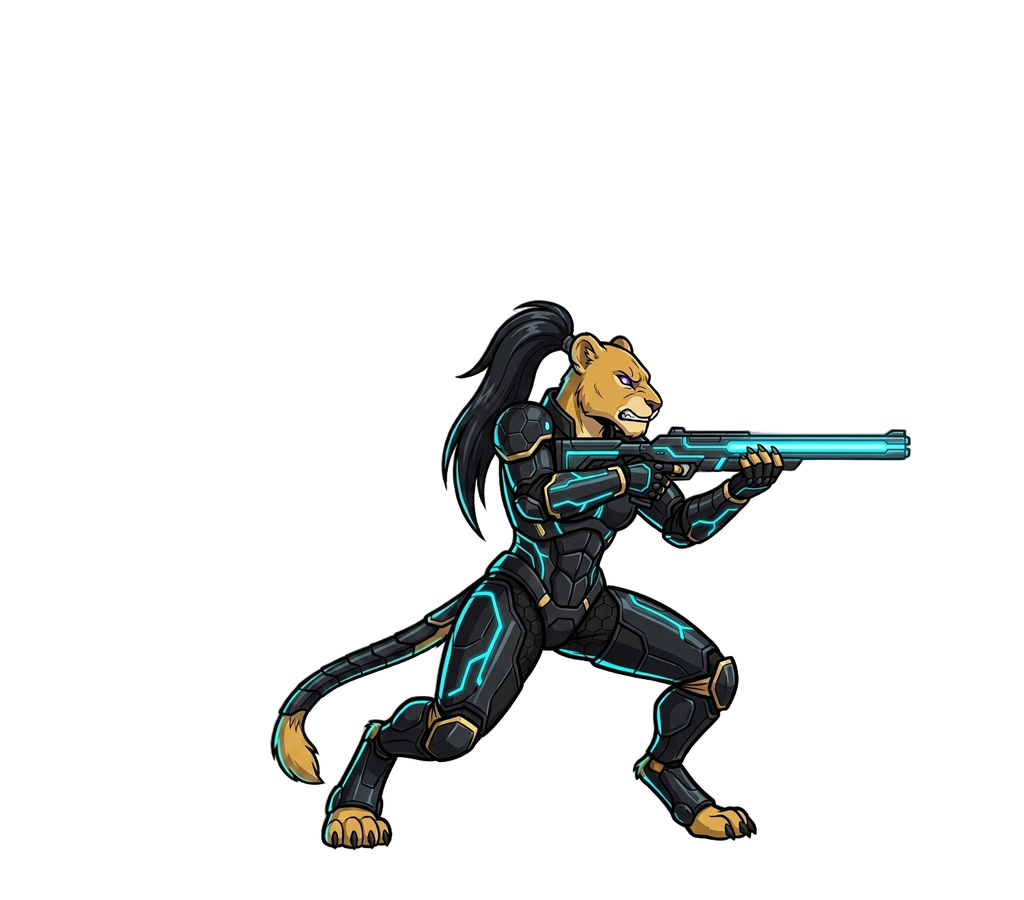
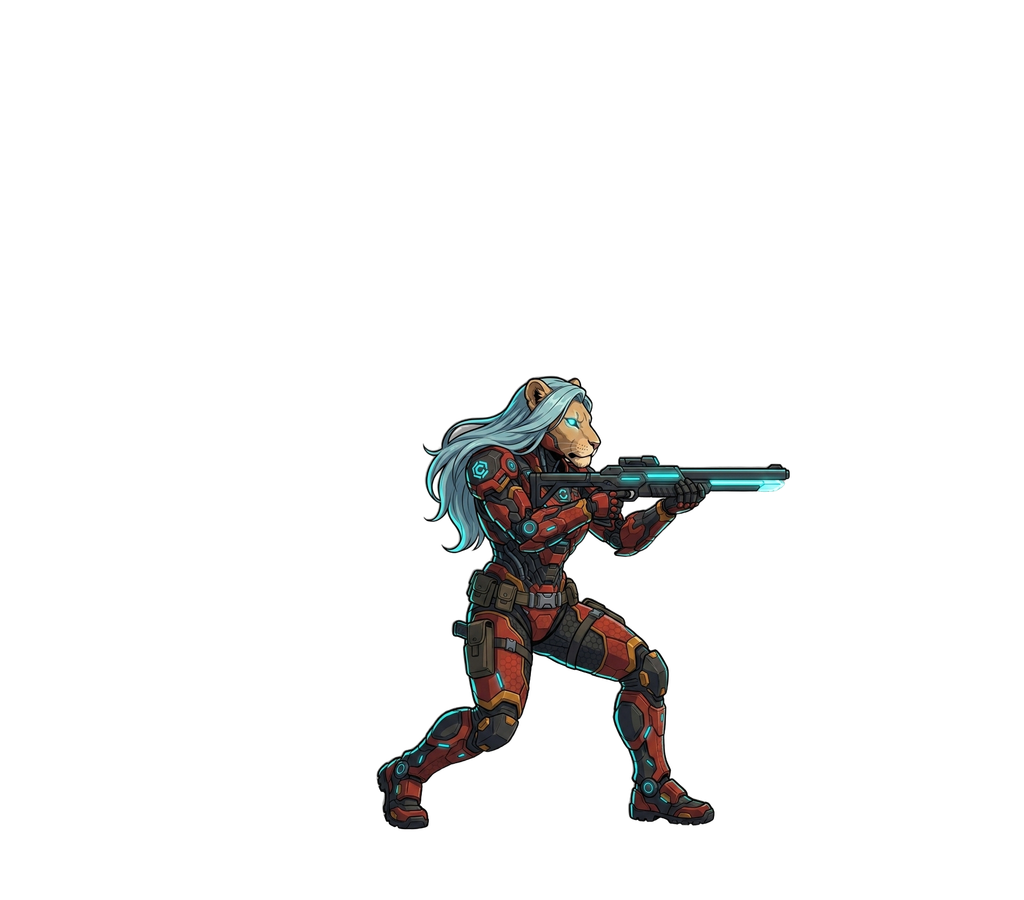
v1.35 Apex Huntress — brand-accurate red hero matching the official design
Reworked the hero to match the official Apex Huntress art (reference 2649): tan
lioness with glowing cyan eyes, long light-blue hair, RED and black mech armor
with gold trim, cyan tech lines and hex plating, the cyan "C" chest emblem, and
a cyan energy rifle. Dropped the tail for a more compact, cleaner sprite.

Generated four poses (ready / run / jump / crouch) with the user's reference
image as a direct visual reference so they match the brand and each other, then
background-removed and aligned to the shared canvas. Each pose is scaled to a
consistent apparent size (crouch a touch shorter) baked into the image, so one
display size + hitbox keeps grounding stable across swaps.

Functional pass while credits are low — the smooth bounding run cycle (second
run frame) and finer polish come in a follow-up when credits renew; run is a
single frame for now, and the old mismatched run2 asset is removed.

Verified headless: all four load and swap by state, feet planted on the ground,
consistent 156px display, zero runtime errors, build clean.

Claude-Session: https://claude.ai/code/session_01E2ix5THEj5LBKQzPAZYEsP

Changed region(s): [[0.25, 0.3111, 0.9062, 0.9644]]

diff --git a/src/game/MainScene.ts b/src/game/MainScene.ts
@@ -3,7 +3,6 @@ import Phaser from 'phaser'
 const ASSETS = {
   huntress: '/assets/huntress.png',
   huntress_run: '/assets/huntress_run.png',
-  huntress_run2: '/assets/huntress_run2.png',
   huntress_jump: '/assets/huntress_jump.png',
   huntress_crouch: '/assets/huntress_crouch.png',
   enemy_soldier: '/assets/enemy_soldier.png',
@@ -471,7 +470,6 @@ export class MainScene extends Phaser.Scene {
     // aligned to a shared canvas so they swap without jitter (ready/run/jump/crouch).
     this.load.image('huntress', ASSETS.huntress)
     this.load.image('huntress_run', ASSETS.huntress_run)
-    this.load.image('huntress_run2', ASSETS.huntress_run2)
     this.load.image('huntress_jump', ASSETS.huntress_jump)
     this.load.image('huntress_crouch', ASSETS.huntress_crouch)
     this.load.image('enemy_soldier', ASSETS.enemy_soldier)
@@ -698,10 +696,10 @@ export class MainScene extends Phaser.Scene {
 
   private sizePlayer() {
     const k = this.player.texture.key
-    if (k === 'huntress' || k === 'huntress_run' || k === 'huntress_run2' || k === 'huntress_jump' || k === 'huntress_crouch') {
-      // All hero poses share one aligned 1024x900 canvas (body-axis centred at
-      // x=512, feet at y=760, head at y=300) so they swap without size/position
-      // jitter. Display so the ~460px-tall character reads ~80px in design space.
+    if (k === 'huntress' || k === 'huntress_run' || k === 'huntress_jump' || k === 'huntress_crouch') {
+      // All hero poses share one aligned 1024x900 canvas — each already scaled to
+      // a consistent apparent size (crouch a touch shorter) and anchored feet@760
+      // — so one display size + hitbox keeps the physics stable across swaps.
       const DISP_H = 156
       this.player.setDisplaySize(DISP_H * (1024 / 900), DISP_H)
       const tw = this.player.width, th = this.player.height   // 1024 x 900

diff --git a/src/game/Game.tsx b/src/game/Game.tsx
@@ -143,7 +143,7 @@ export function Game() {
         <div className="mb-2 flex items-center justify-between text-sm">
           <span className="font-bold tracking-widest text-fuchsia-400">APEX STRIKE</span>
           <div className="flex items-center gap-3">
-            <span className="text-violet-400/70 text-xs">v1.34 — In Motion</span>
+            <span className="text-violet-400/70 text-xs">v1.35 — Apex Huntress</span>
             <button
               onClick={toggleFullscreen}
               className="text-xs text-violet-200 px-2 py-1 rounded-md border border-violet-700/60 hover:border-fuchsia-500/70 hover:text-fuchsia-200 transition-colors"
